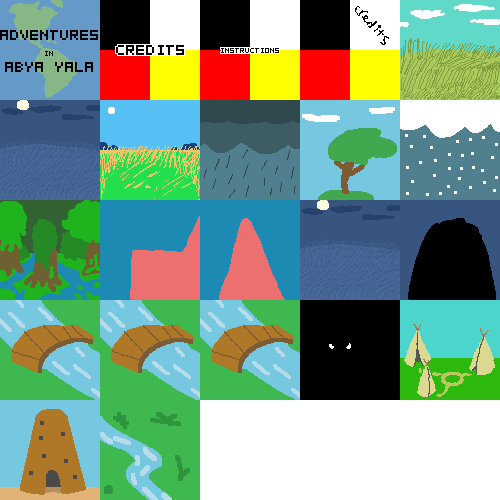
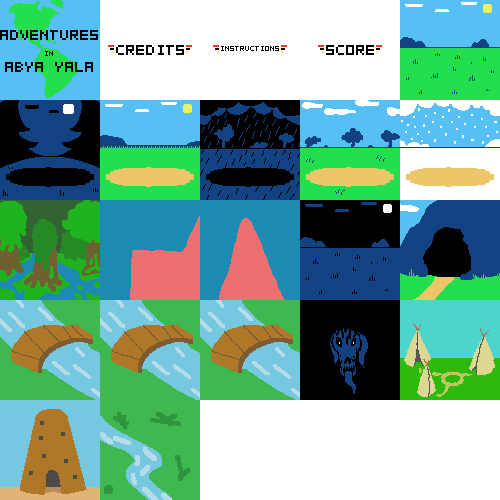
Updated mostly background sprites

diff --git a/src/enums/sprites.ts b/src/enums/sprites.ts
@@ -68,7 +68,7 @@ enum Sprites {
   INSTRUCTIONS = 0x010200,
   SCORE = 0x010300,
   BEGIN = 0x010400,
-  DEATH = 0x010001,
+  NIGHT = 0x010001,
   SUN = 0x010101,
   RAIN = 0x010201,
   WIND = 0x010301,
@@ -76,7 +76,7 @@ enum Sprites {
   SWAMP = 0x010002,
   CLIFF = 0x010102,
   MOUNTAIN = 0x010202,
-  NIGHT = 0x010302,
+  DEATH = 0x010302,
   CAVE = 0x010402,
   BRIDGE = 0x010003,
   GARDEN = 0x010103,
